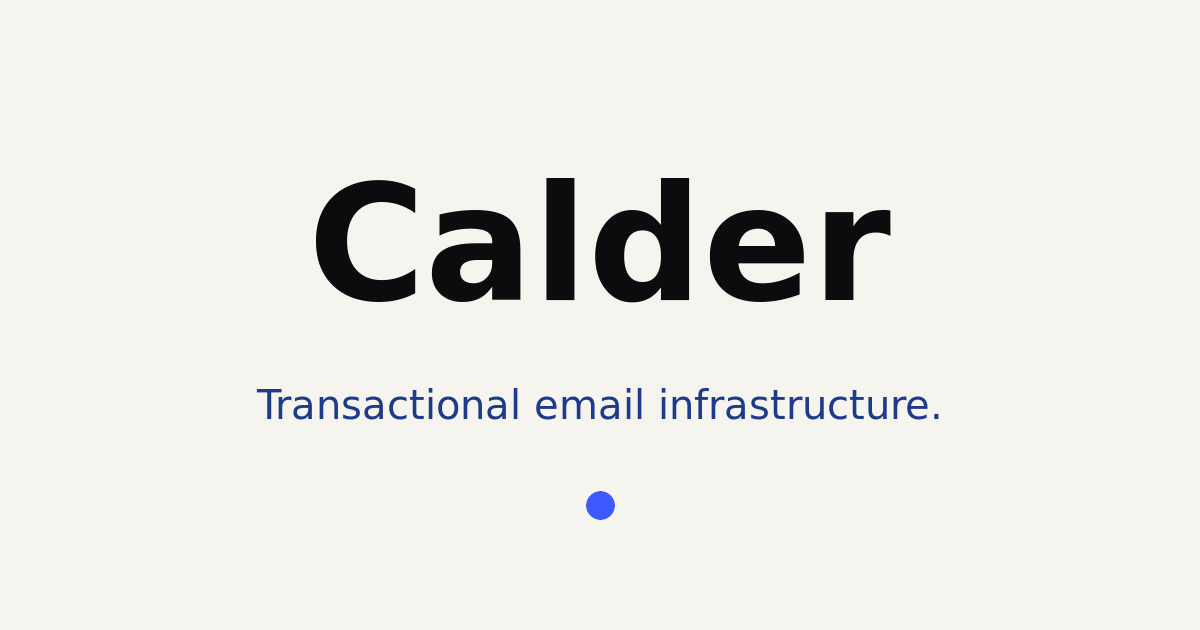
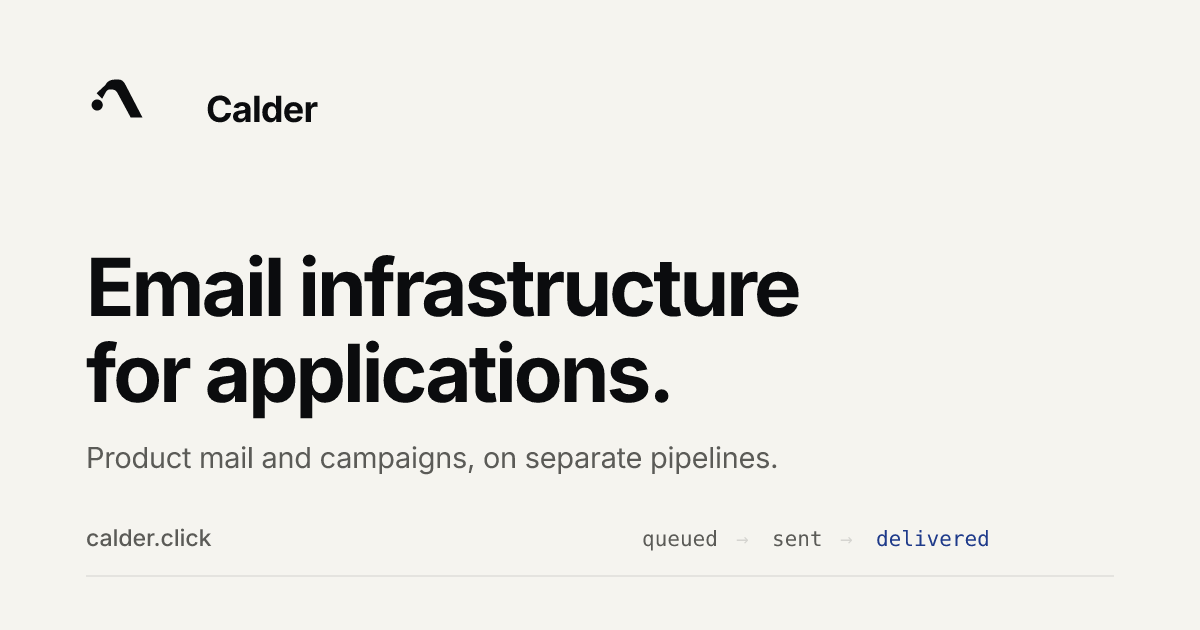
feat(seo): pricing structured data, refreshed org schema, launch social card

diff --git a/apps/web/lib/seo.ts b/apps/web/lib/seo.ts
@@ -1,4 +1,5 @@
 import type { Metadata } from "next";
+import type { Plan } from "./plans";
 
 /**
  * Single source of SEO truth. Every public page builds metadata through
@@ -57,7 +58,7 @@ export function orgJsonLd(): Record<string, unknown> {
     name: "Calder",
     url: SITE_URL,
     description:
-      "Developer-first transactional email infrastructure. One API for OTPs, verification, receipts, and notifications, observable from queued to delivered.",
+      "Email infrastructure for applications. One API for transactional mail (OTPs, verification, receipts) and campaigns, sent on separate pipelines so product mail never inherits a campaign's reputation.",
     foundingDate: "2026",
     founder: founderJsonLd(),
     areaServed: ["NG", "Worldwide"],
@@ -71,10 +72,15 @@ export function founderJsonLd(): Record<string, unknown> {
     "@type": "Person",
     name: "Daniel Oluwadare",
     jobTitle: "Founder",
-    description: "Founder of Calder, communication infrastructure for transactional email.",
+    description: "Founder of Calder, email infrastructure for applications.",
     url: SITE_URL,
     worksFor: { "@type": "Organization", name: "Calder", url: SITE_URL },
-    knowsAbout: ["Transactional Email", "Deliverability", "Developer Infrastructure"],
+    knowsAbout: [
+      "Transactional Email",
+      "Email Marketing",
+      "Deliverability",
+      "Developer Infrastructure",
+    ],
   };
 }
 
@@ -102,5 +108,50 @@ export function articleJsonLd(input: {
     publisher: { "@type": "Organization", name: "Calder", url: SITE_URL },
     mainEntityOfPage: `${SITE_URL}${input.path}`,
     datePublished: input.datePublished,
+  };
+}
+
+/**
+ * Structured data for /pricing, built from the same PLANS array the page
+ * renders. Naira and dollar figures are separate price points rather than
+ * conversions, so each plan emits one Offer per currency. Scale is quoted, so
+ * it carries no price and no fake number.
+ */
+export function pricingJsonLd(plans: Plan[]): Record<string, unknown> {
+  const offers = plans.flatMap((plan) => {
+    const entries: { currency: string; price: string }[] = [
+      { currency: "USD", price: plan.price.USD },
+      { currency: "NGN", price: plan.price.NGN },
+    ];
+    const priced = entries
+      .map((entry) => ({ ...entry, price: entry.price.replace(/[^0-9.]/g, "") }))
+      .filter((entry) => entry.price.length > 0);
+
+    const base = {
+      "@type": "Offer" as const,
+      name: `${plan.name} plan`,
+      url: `${SITE_URL}/pricing`,
+      availability: "https://schema.org/InStock",
+      description: `${plan.promise} ${plan.volume}, ${plan.projects} projects, ${plan.domains} sending domains, ${plan.team} team seat(s), ${plan.logs} log retention, ${plan.support.toLowerCase()} support.`,
+    };
+
+    if (priced.length === 0) return [{ ...base }];
+    return priced.map((entry) => ({
+      ...base,
+      name: `${plan.name} plan (${entry.currency})`,
+      price: entry.price,
+      priceCurrency: entry.currency,
+    }));
+  });
+
+  return {
+    "@context": "https://schema.org",
+    "@type": "Product",
+    name: "Calder",
+    description:
+      "Email infrastructure for applications: transactional mail and campaigns on separate pipelines.",
+    brand: { "@type": "Brand", name: SITE_NAME },
+    url: `${SITE_URL}/pricing`,
+    offers,
   };
 }

diff --git a/apps/web/app/pricing/page.tsx b/apps/web/app/pricing/page.tsx
@@ -1,5 +1,5 @@
 import type { Metadata } from "next";
-import { pageMeta } from "../../lib/seo";
+import { pageMeta, pricingJsonLd } from "../../lib/seo";
 import { Navigation } from "../../components/navigation";
 import { Pricing } from "../../components/pricing";
 import { PlanComparison } from "../../components/pricing-table";
@@ -7,7 +7,7 @@ import { Streams } from "../../components/streams";
 import { FinalCta, Footer } from "../../components/closing";
 import { PageHero } from "../../components/page-hero";
 import { Reveal } from "../../components/reveal";
-import { PRICING_FAQS } from "../../lib/plans";
+import { PLANS, PRICING_FAQS } from "../../lib/plans";
 
 export const metadata: Metadata = pageMeta({
   title: "Pricing",
@@ -35,6 +35,10 @@ const LIMITS = [
 export default function PricingPage() {
   return (
     <>
+      <script
+        type="application/ld+json"
+        dangerouslySetInnerHTML={{ __html: JSON.stringify(pricingJsonLd(PLANS)) }}
+      />
       <Navigation />
       <main>
         <PageHero
